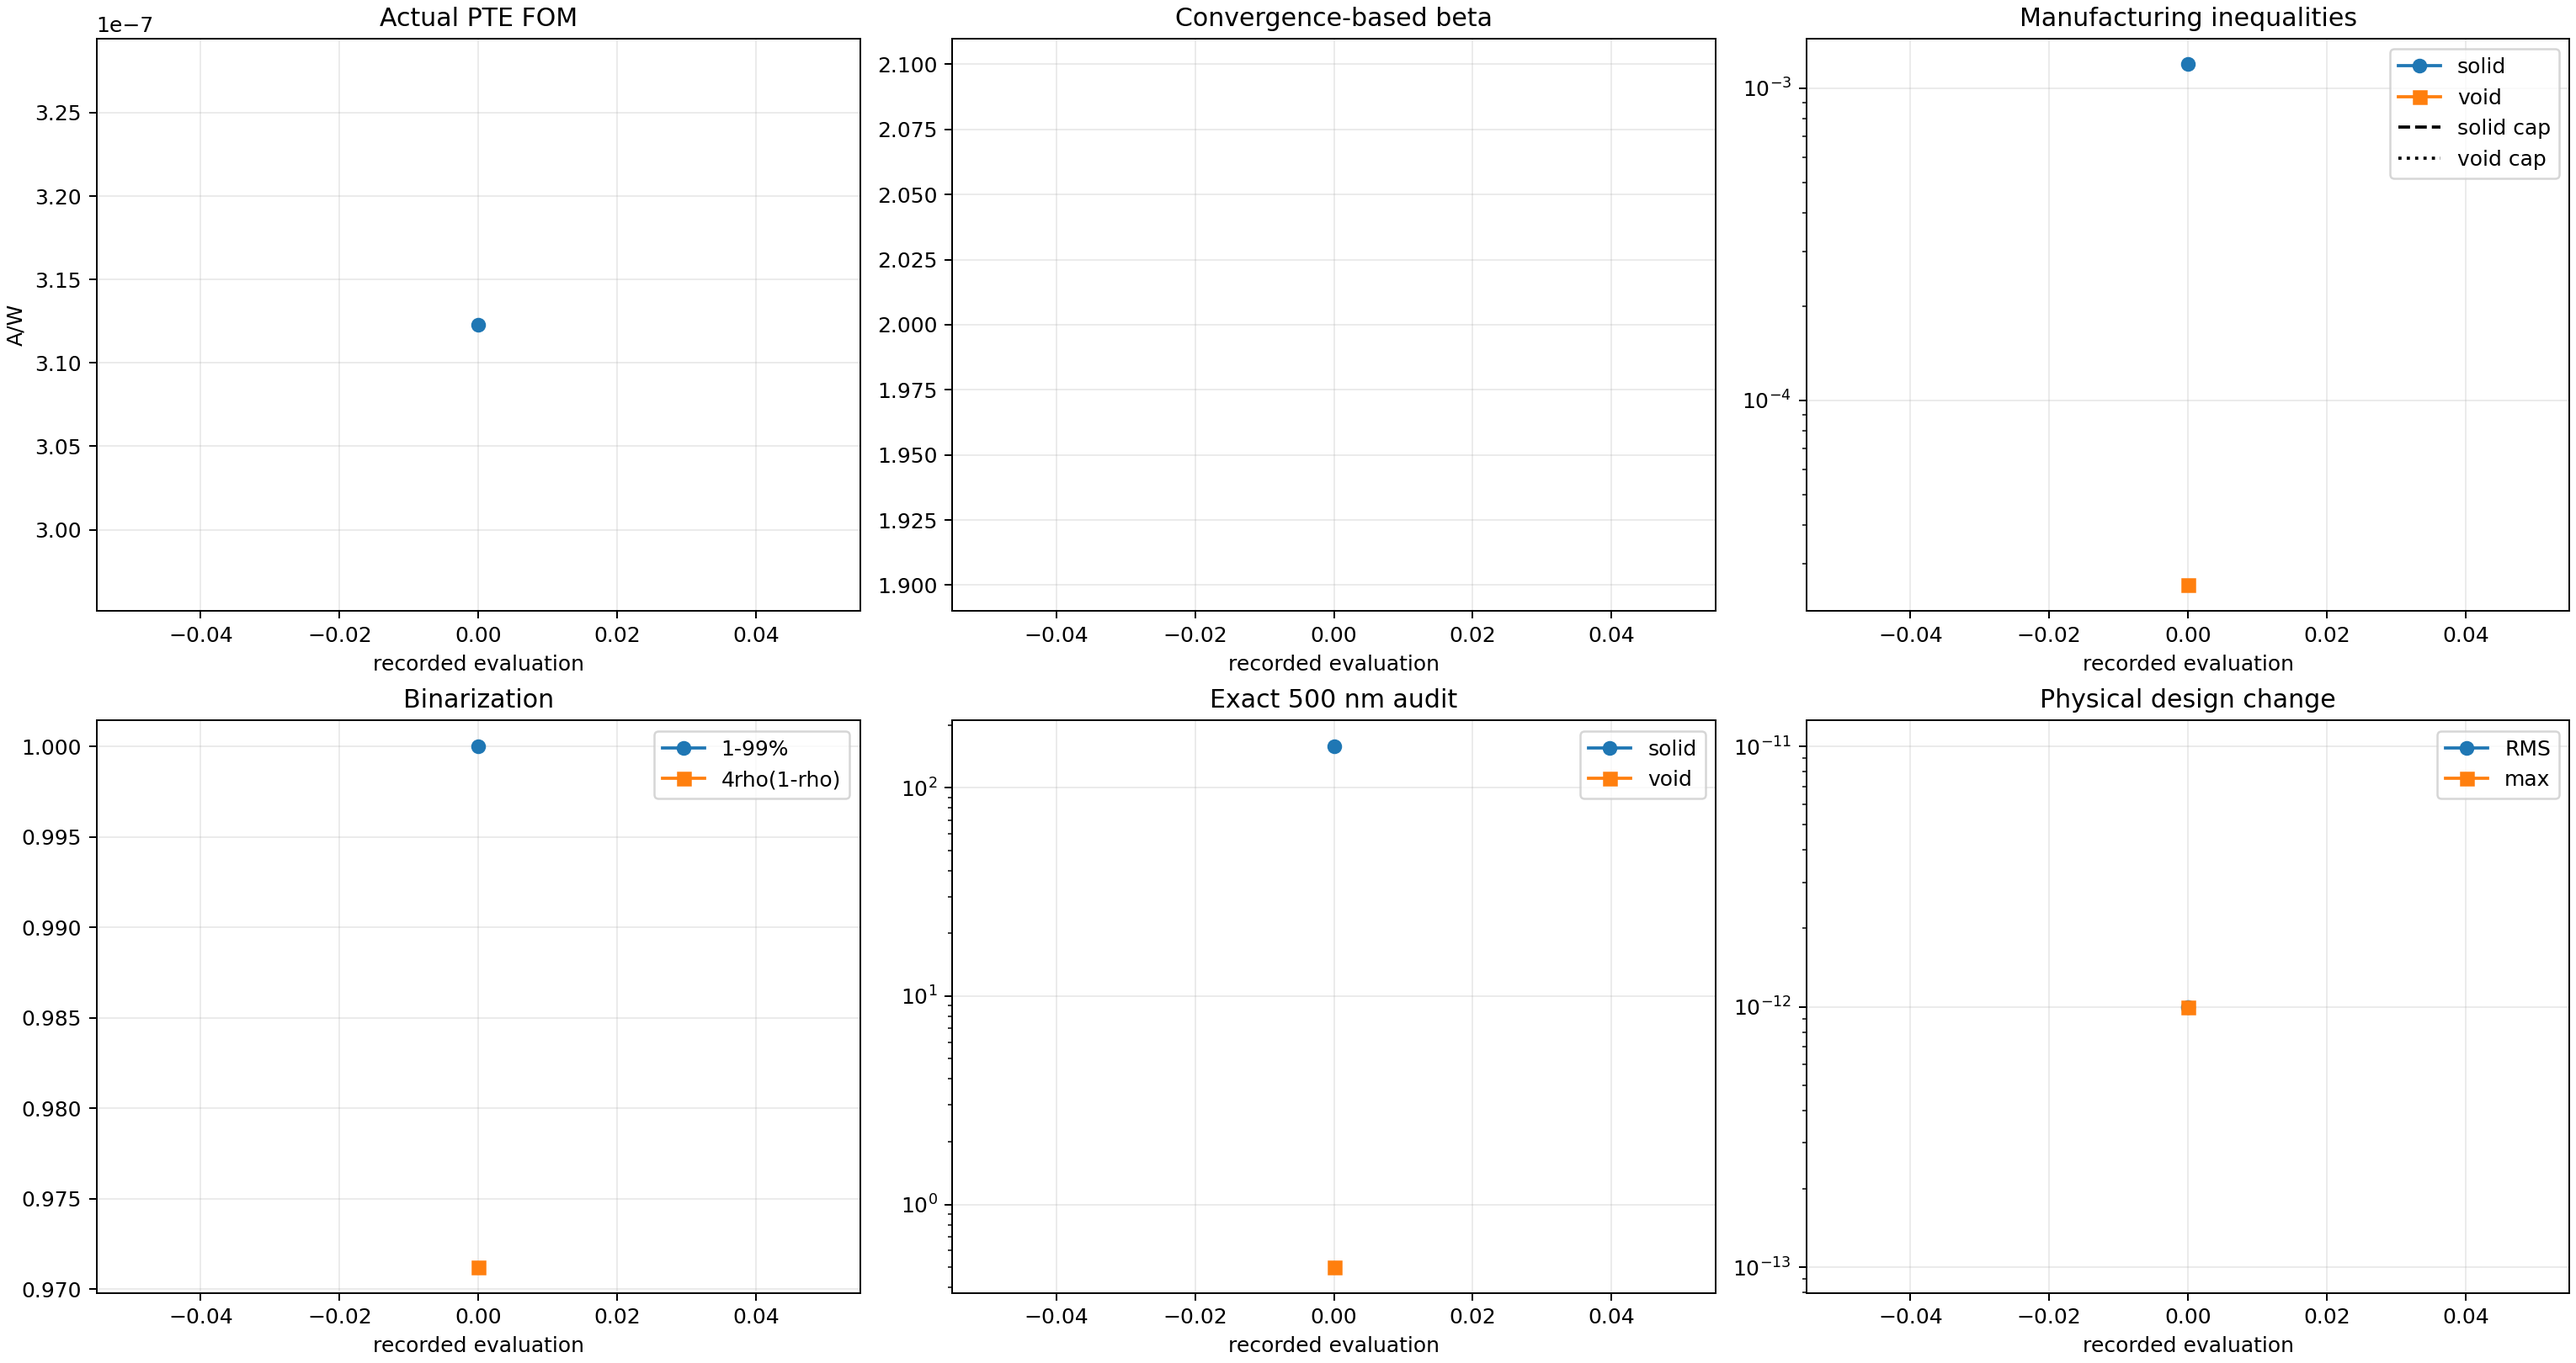
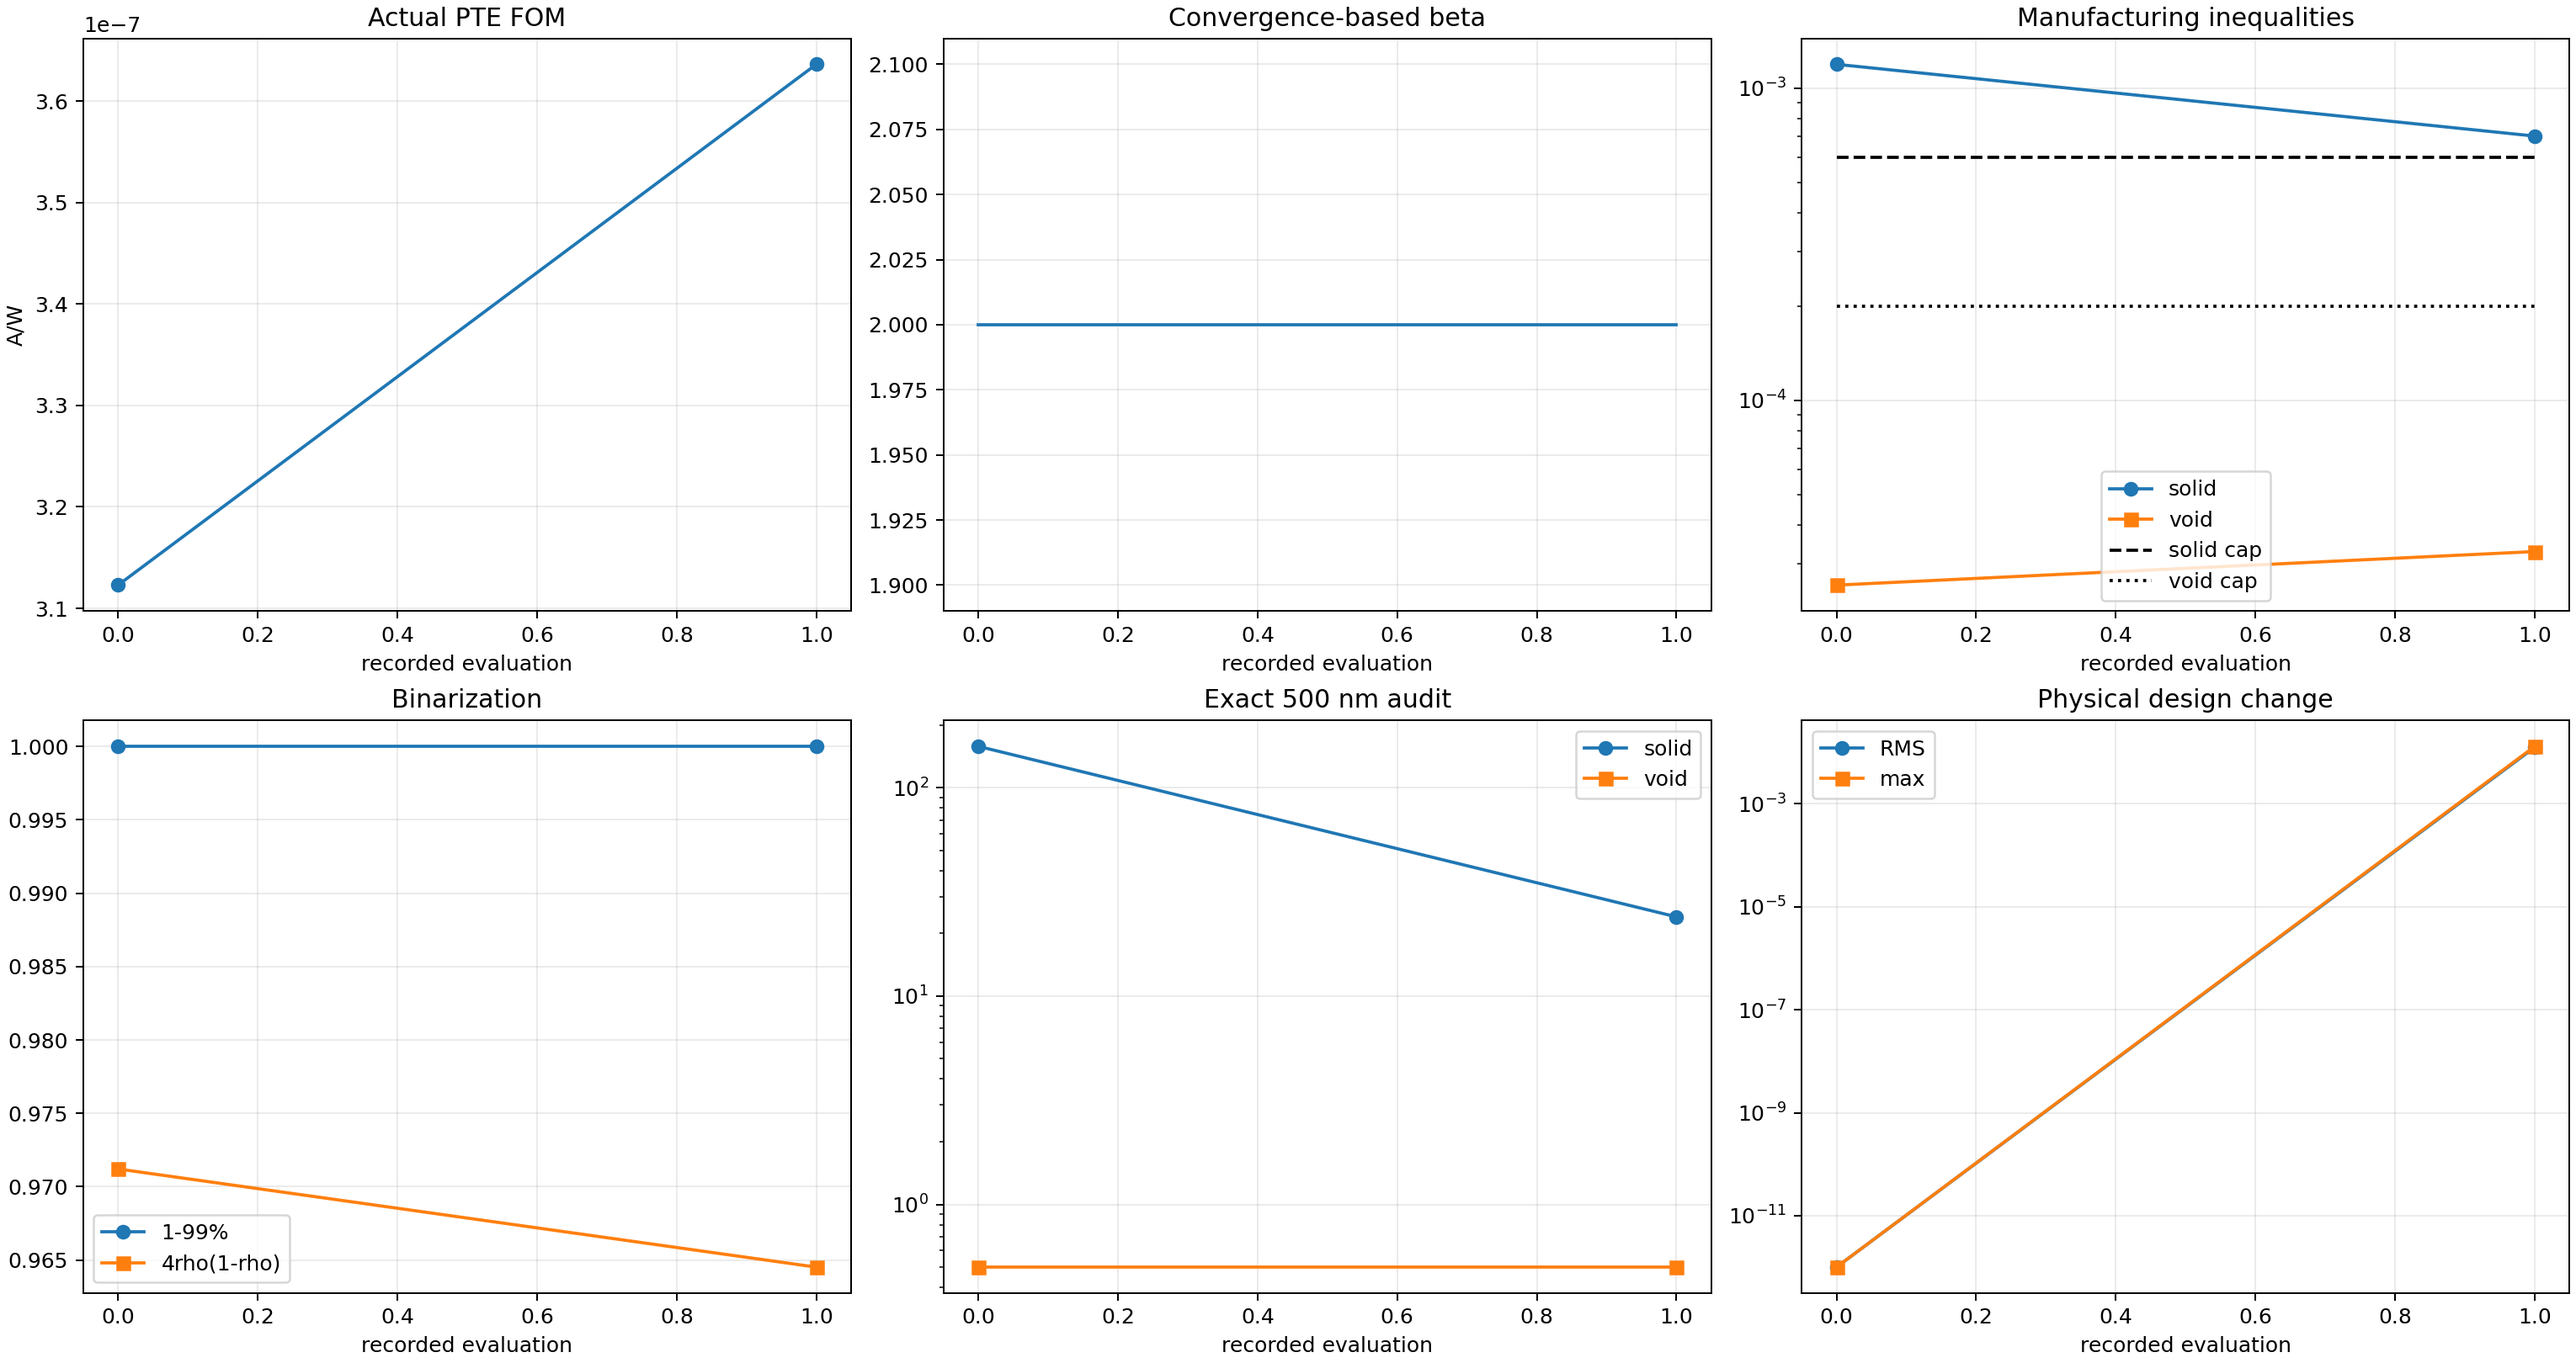
Record Run 005 run006_Ea_b002_s001_g001_accepted_mma

diff --git a/photothermal_pte/optimization_runs/run_006_corrected_Ea_pte_magnitude_max/results/OPTIMIZATION_REPORT.md b/photothermal_pte/optimization_runs/run_006_corrected_Ea_pte_magnitude_max/results/OPTIMIZATION_REPORT.md
@@ -2,12 +2,12 @@
 
 Status: `RUNNING_CORRECTED_EA_PTE_MAGNITUDE_OPTIMIZATION`
 
-Current stage: beta=2, accepted stage iteration=0, global iteration=0.
+Current stage: beta=2, accepted stage iteration=1, global iteration=1.
 
 Constraint contract: `soft_disk_opening_500nm_from_iteration_zero_v5`.
 
-Actual FOM: `3.122877693863e-07 A/W`. Fixed-cap solid/void constraints: `1.192176e-03` / `2.563430e-05` with caps `6.000000e-04` / `2.000000e-04`.
+Actual FOM: `3.636278564558e-07 A/W`. Fixed-cap solid/void constraints: `7.024144e-04` / `3.283405e-05` with caps `6.000000e-04` / `2.000000e-04`.
 
-Exact 500 nm bad cells: solid `158`, void `0`. Stage convergence: `False` (need at least 8 accepted updates).
+Exact 500 nm bad cells: solid `24`, void `0`. Stage convergence: `False` (need at least 8 accepted updates).
 
 Beta advances only after the stage FOM/density plateau. The run is not complete until the projected-binary and exact 500 nm gates pass and a fresh thresholded-binary GPU/CUDA evaluation succeeds.
